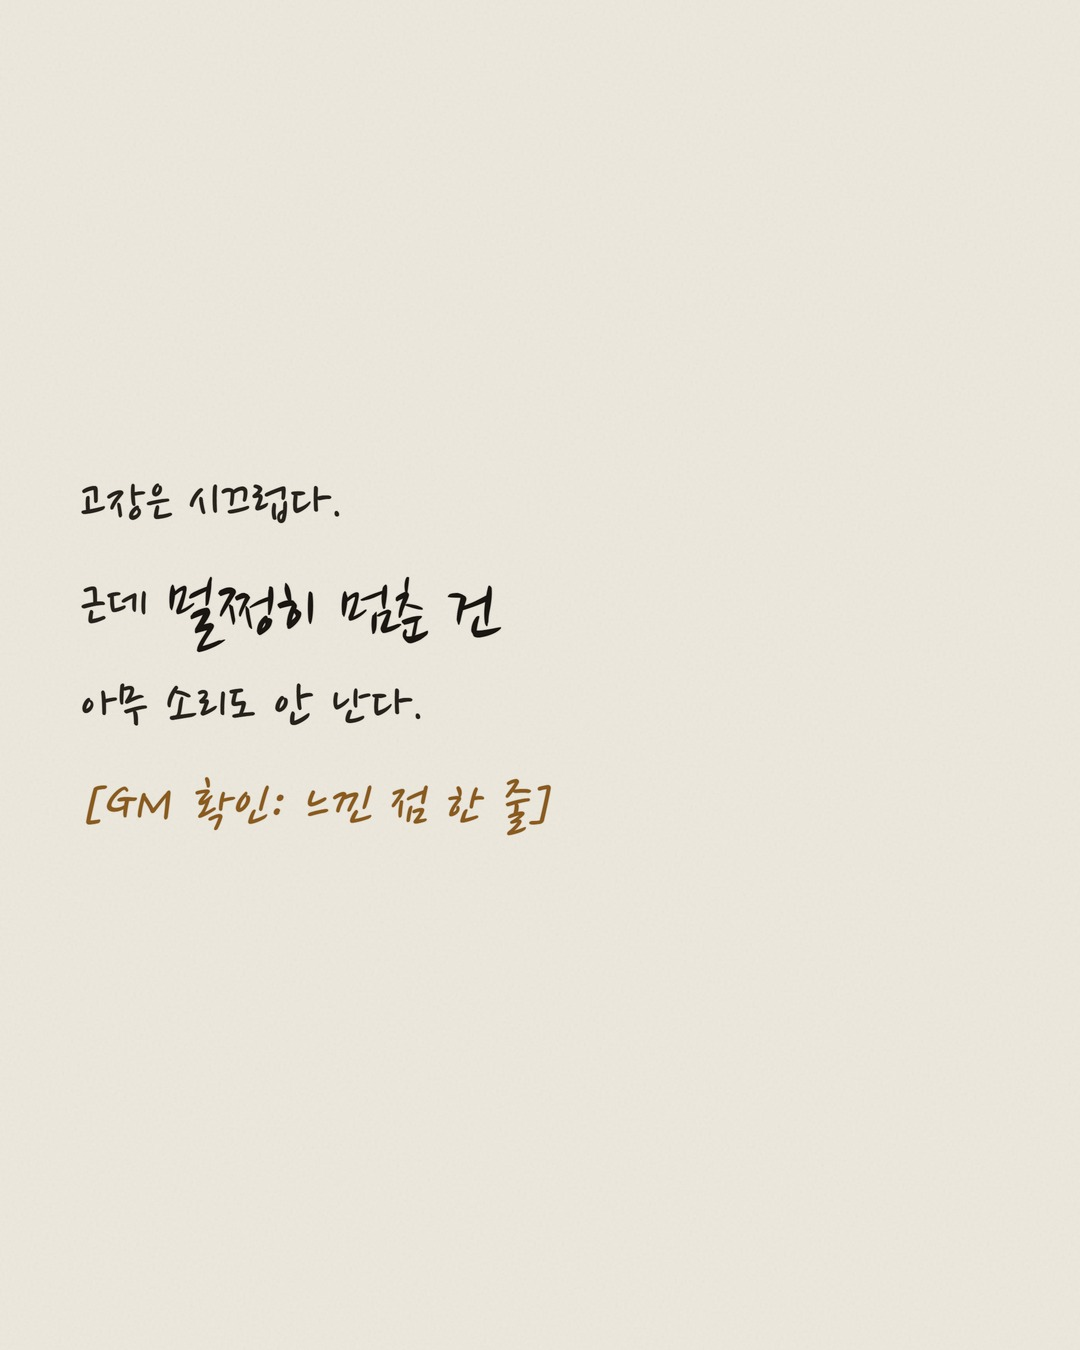
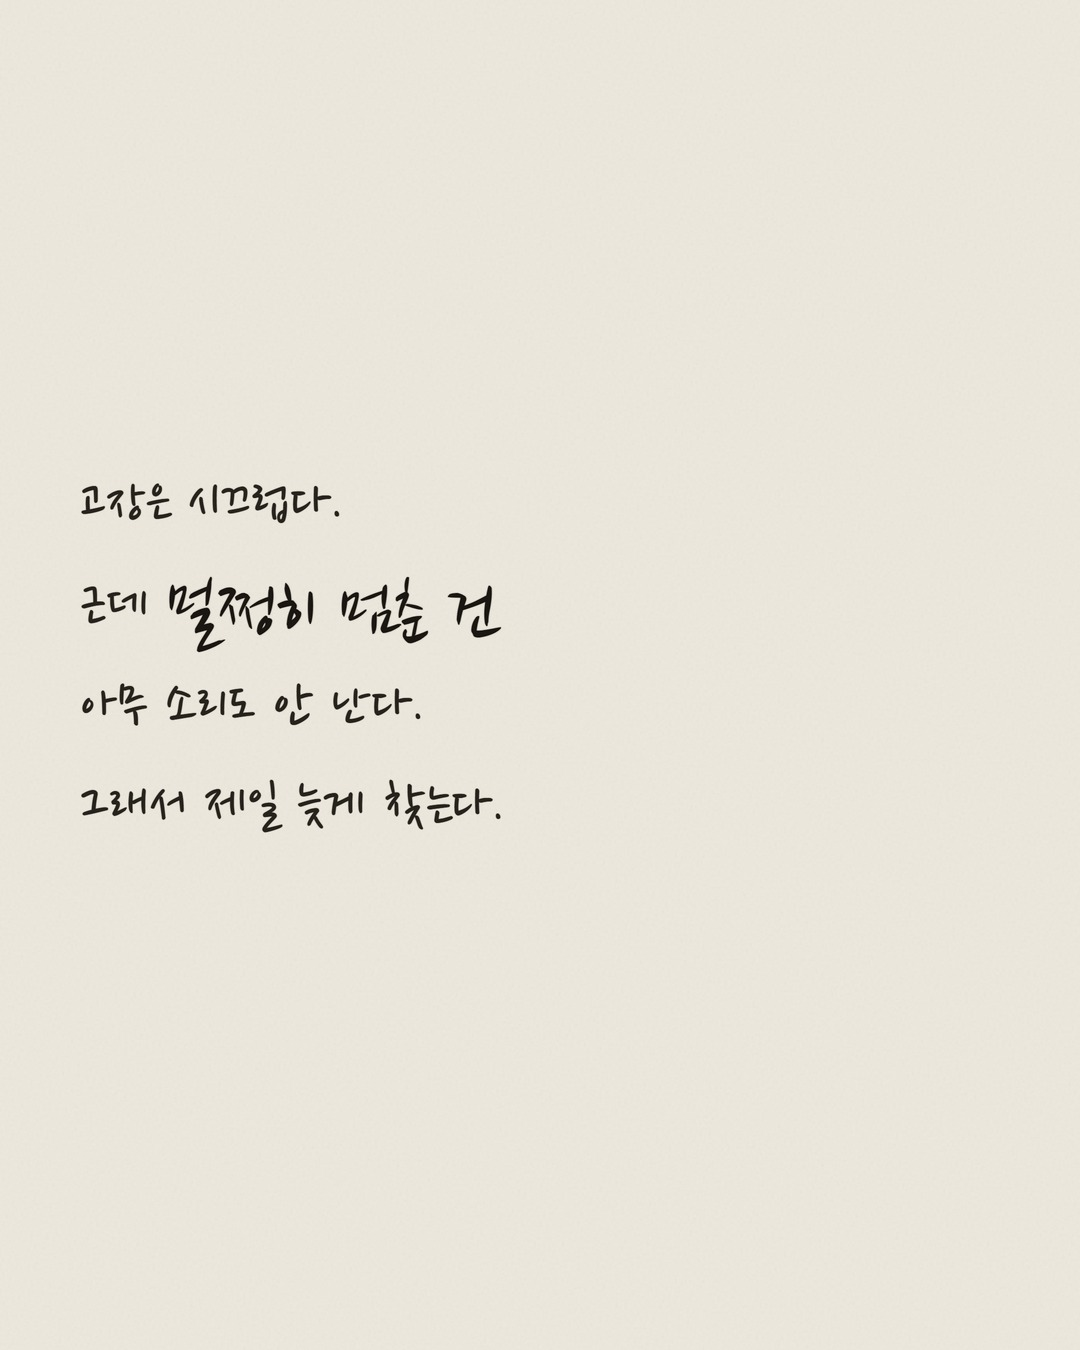
fix(cmo): 14편 GM확인란 제거·재렌더 (발행 후 정정) + 발행완료 URL 기록

Changed region(s): [[0.0611, 0.56, 0.5194, 0.6222]]

diff --git a/instagram/namuk.wellperion/260725_GM토요일_하나껐더니같이꺼졌다/ep14_diary_source.html b/instagram/namuk.wellperion/260725_GM토요일_하나껐더니같이꺼졌다/ep14_diary_source.html
@@ -124,7 +124,7 @@
       <div class="cap">5 · 느낀 점</div>
       <div class="sheet"><div class="pad mid">
         <div class="body"><div class="entry">
-          고장은 시끄럽다.<br>근데 <span class="hit">멀쩡히 멈춘 건</span><br>아무 소리도 안 난다.<br><span class="gm">[GM 확인: 느낀 점 한 줄]</span>
+          고장은 시끄럽다.<br>근데 <span class="hit">멀쩡히 멈춘 건</span><br>아무 소리도 안 난다.<br>그래서 제일 늦게 찾는다.
         </div></div>
         <div class="foot"><span></span><span></span></div>
       </div></div>

diff --git a/instagram/namuk.wellperion/260725_GM토요일_하나껐더니같이꺼졌다/caption.md b/instagram/namuk.wellperion/260725_GM토요일_하나껐더니같이꺼졌다/caption.md
@@ -8,8 +8,6 @@ GM의 토요일.
 
 고장은 시끄러운데, 멀쩡히 멈춘 건 아무 소리도 안 나더라고요. 에러도 없고 알림도 없으니까요. 제일 늦게 찾게 되는 건 늘 그런 쪽이었어요.
 
-[GM 확인: 이번 건에서 느낀 점 한 줄 추가]
-
 매주 토요일엔 이렇게, 이번 주 문제 하나를 찾아 정리해보려고 합니다.
 
 💬 당신 가게에도 '꺼진 줄 모르고 지나간 것' 있으셨나요? 댓글로 알려주세요
